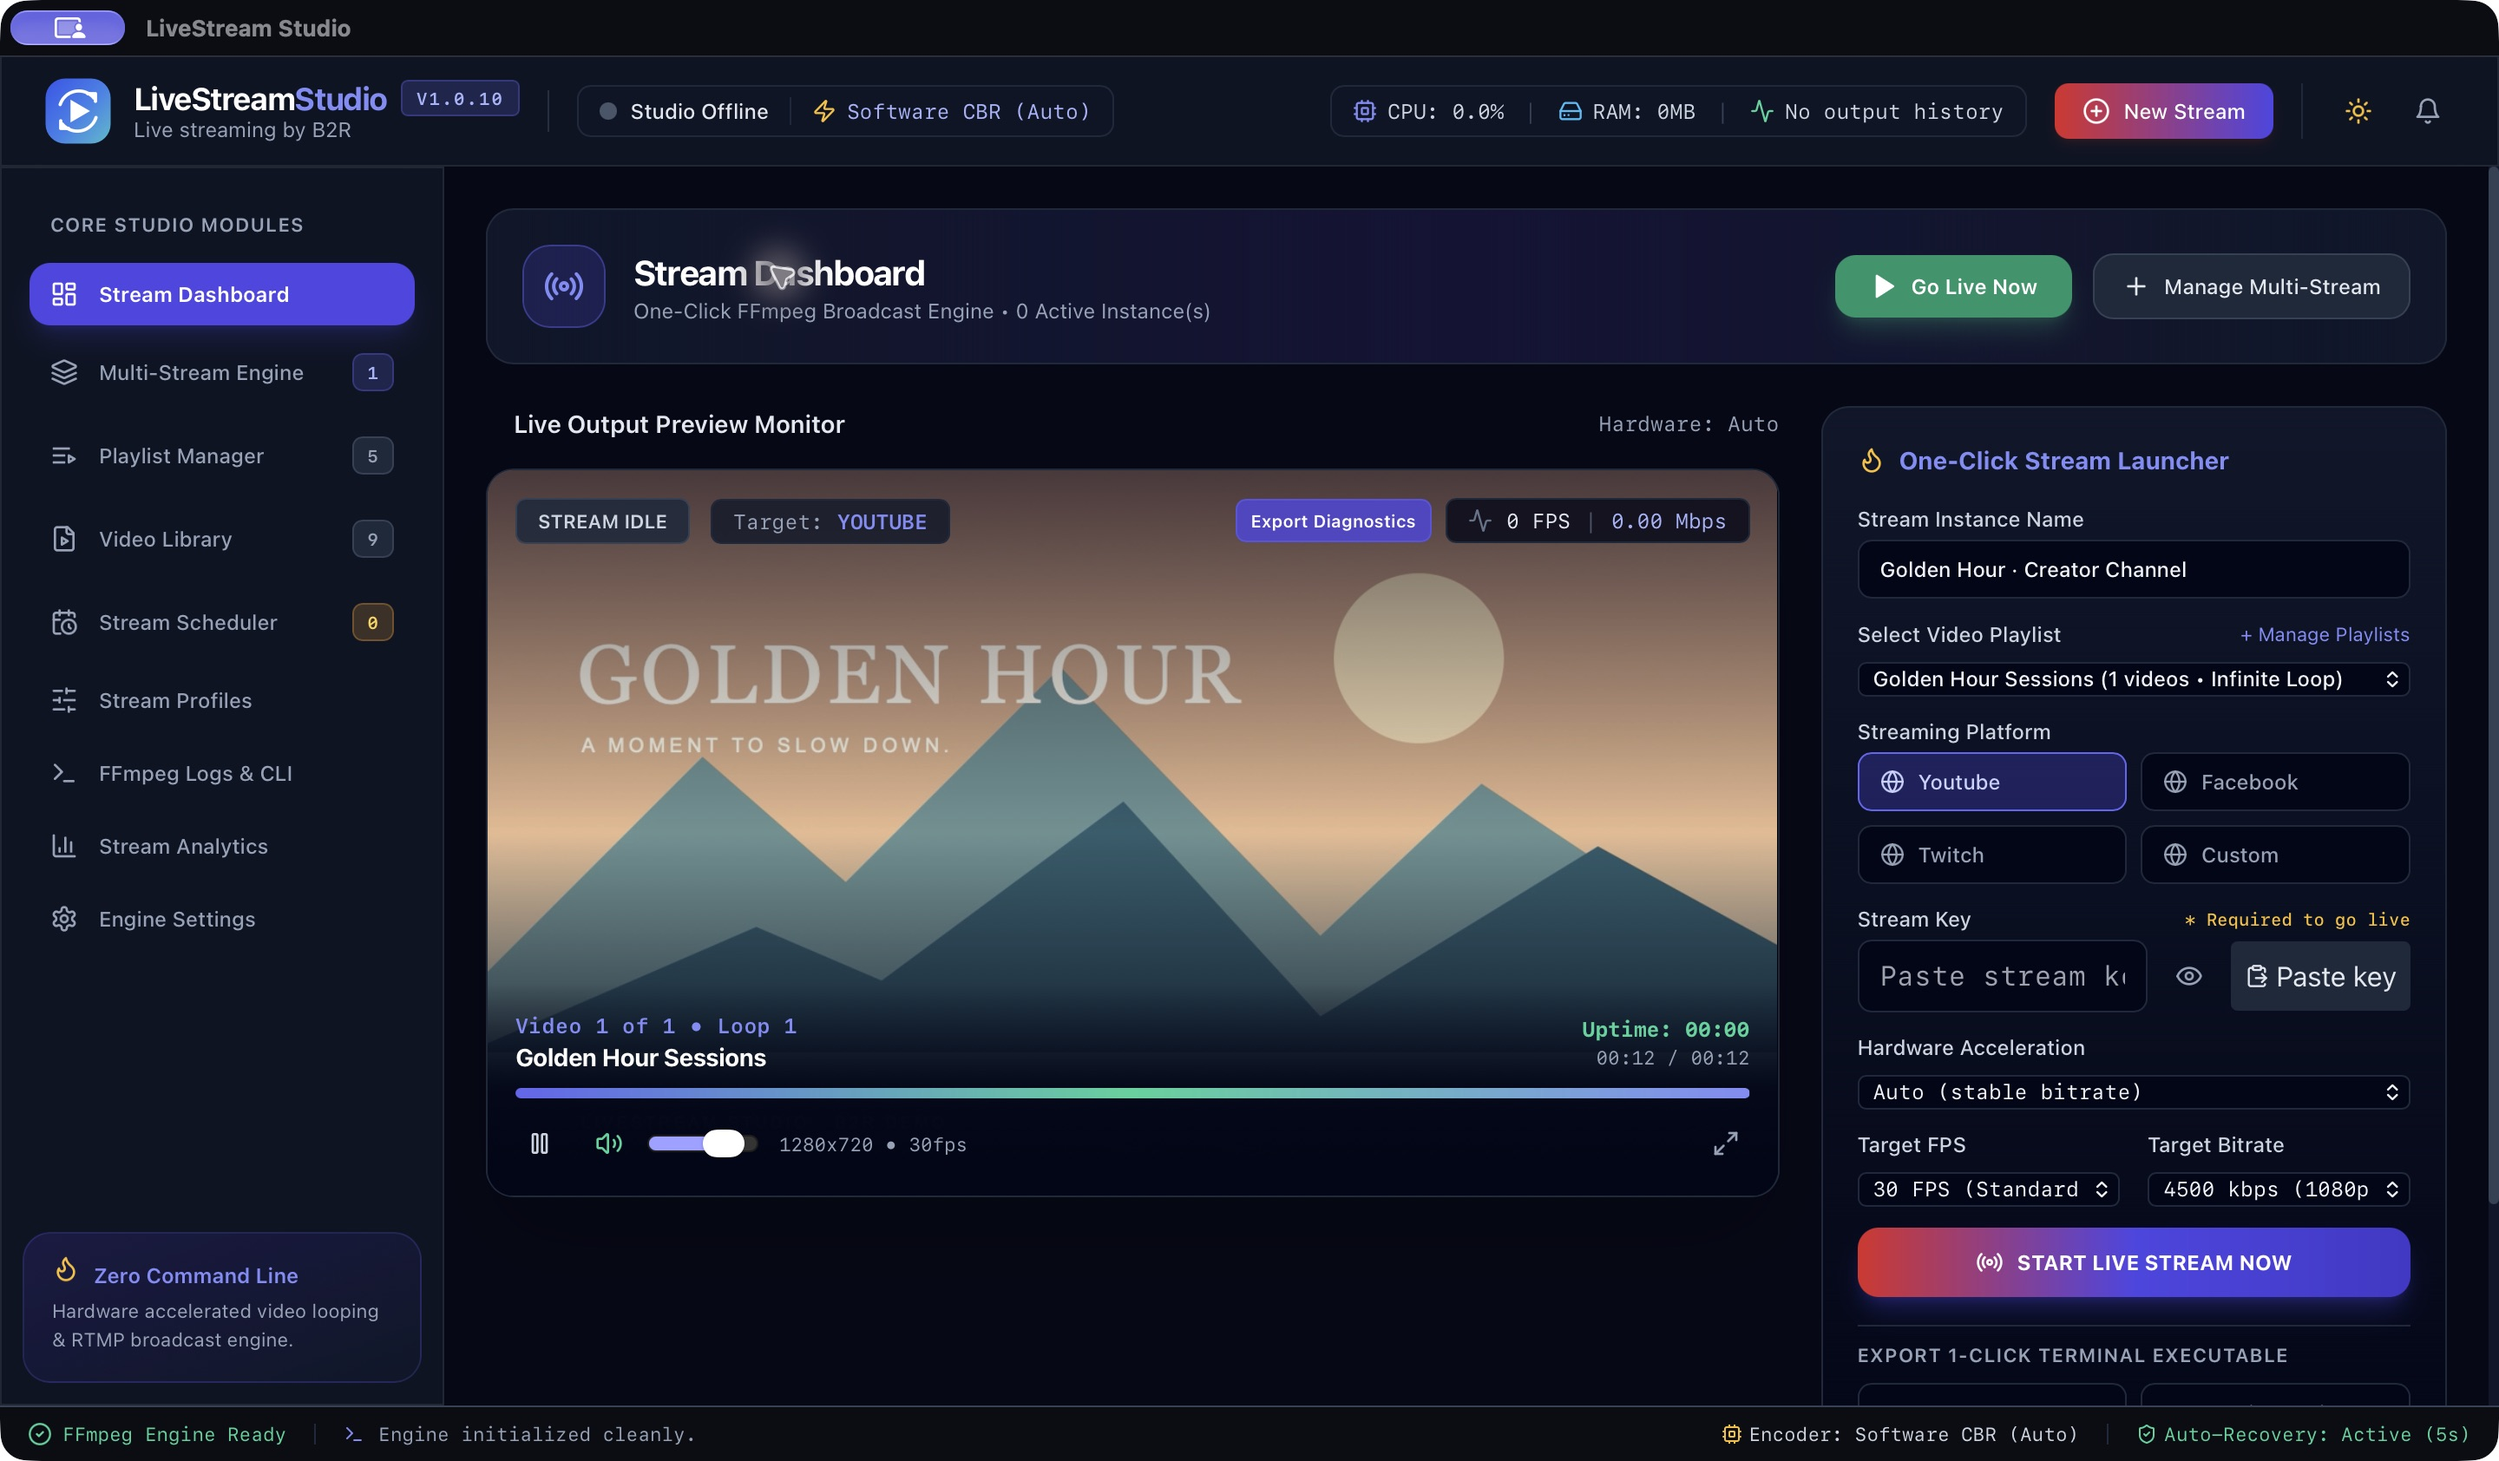
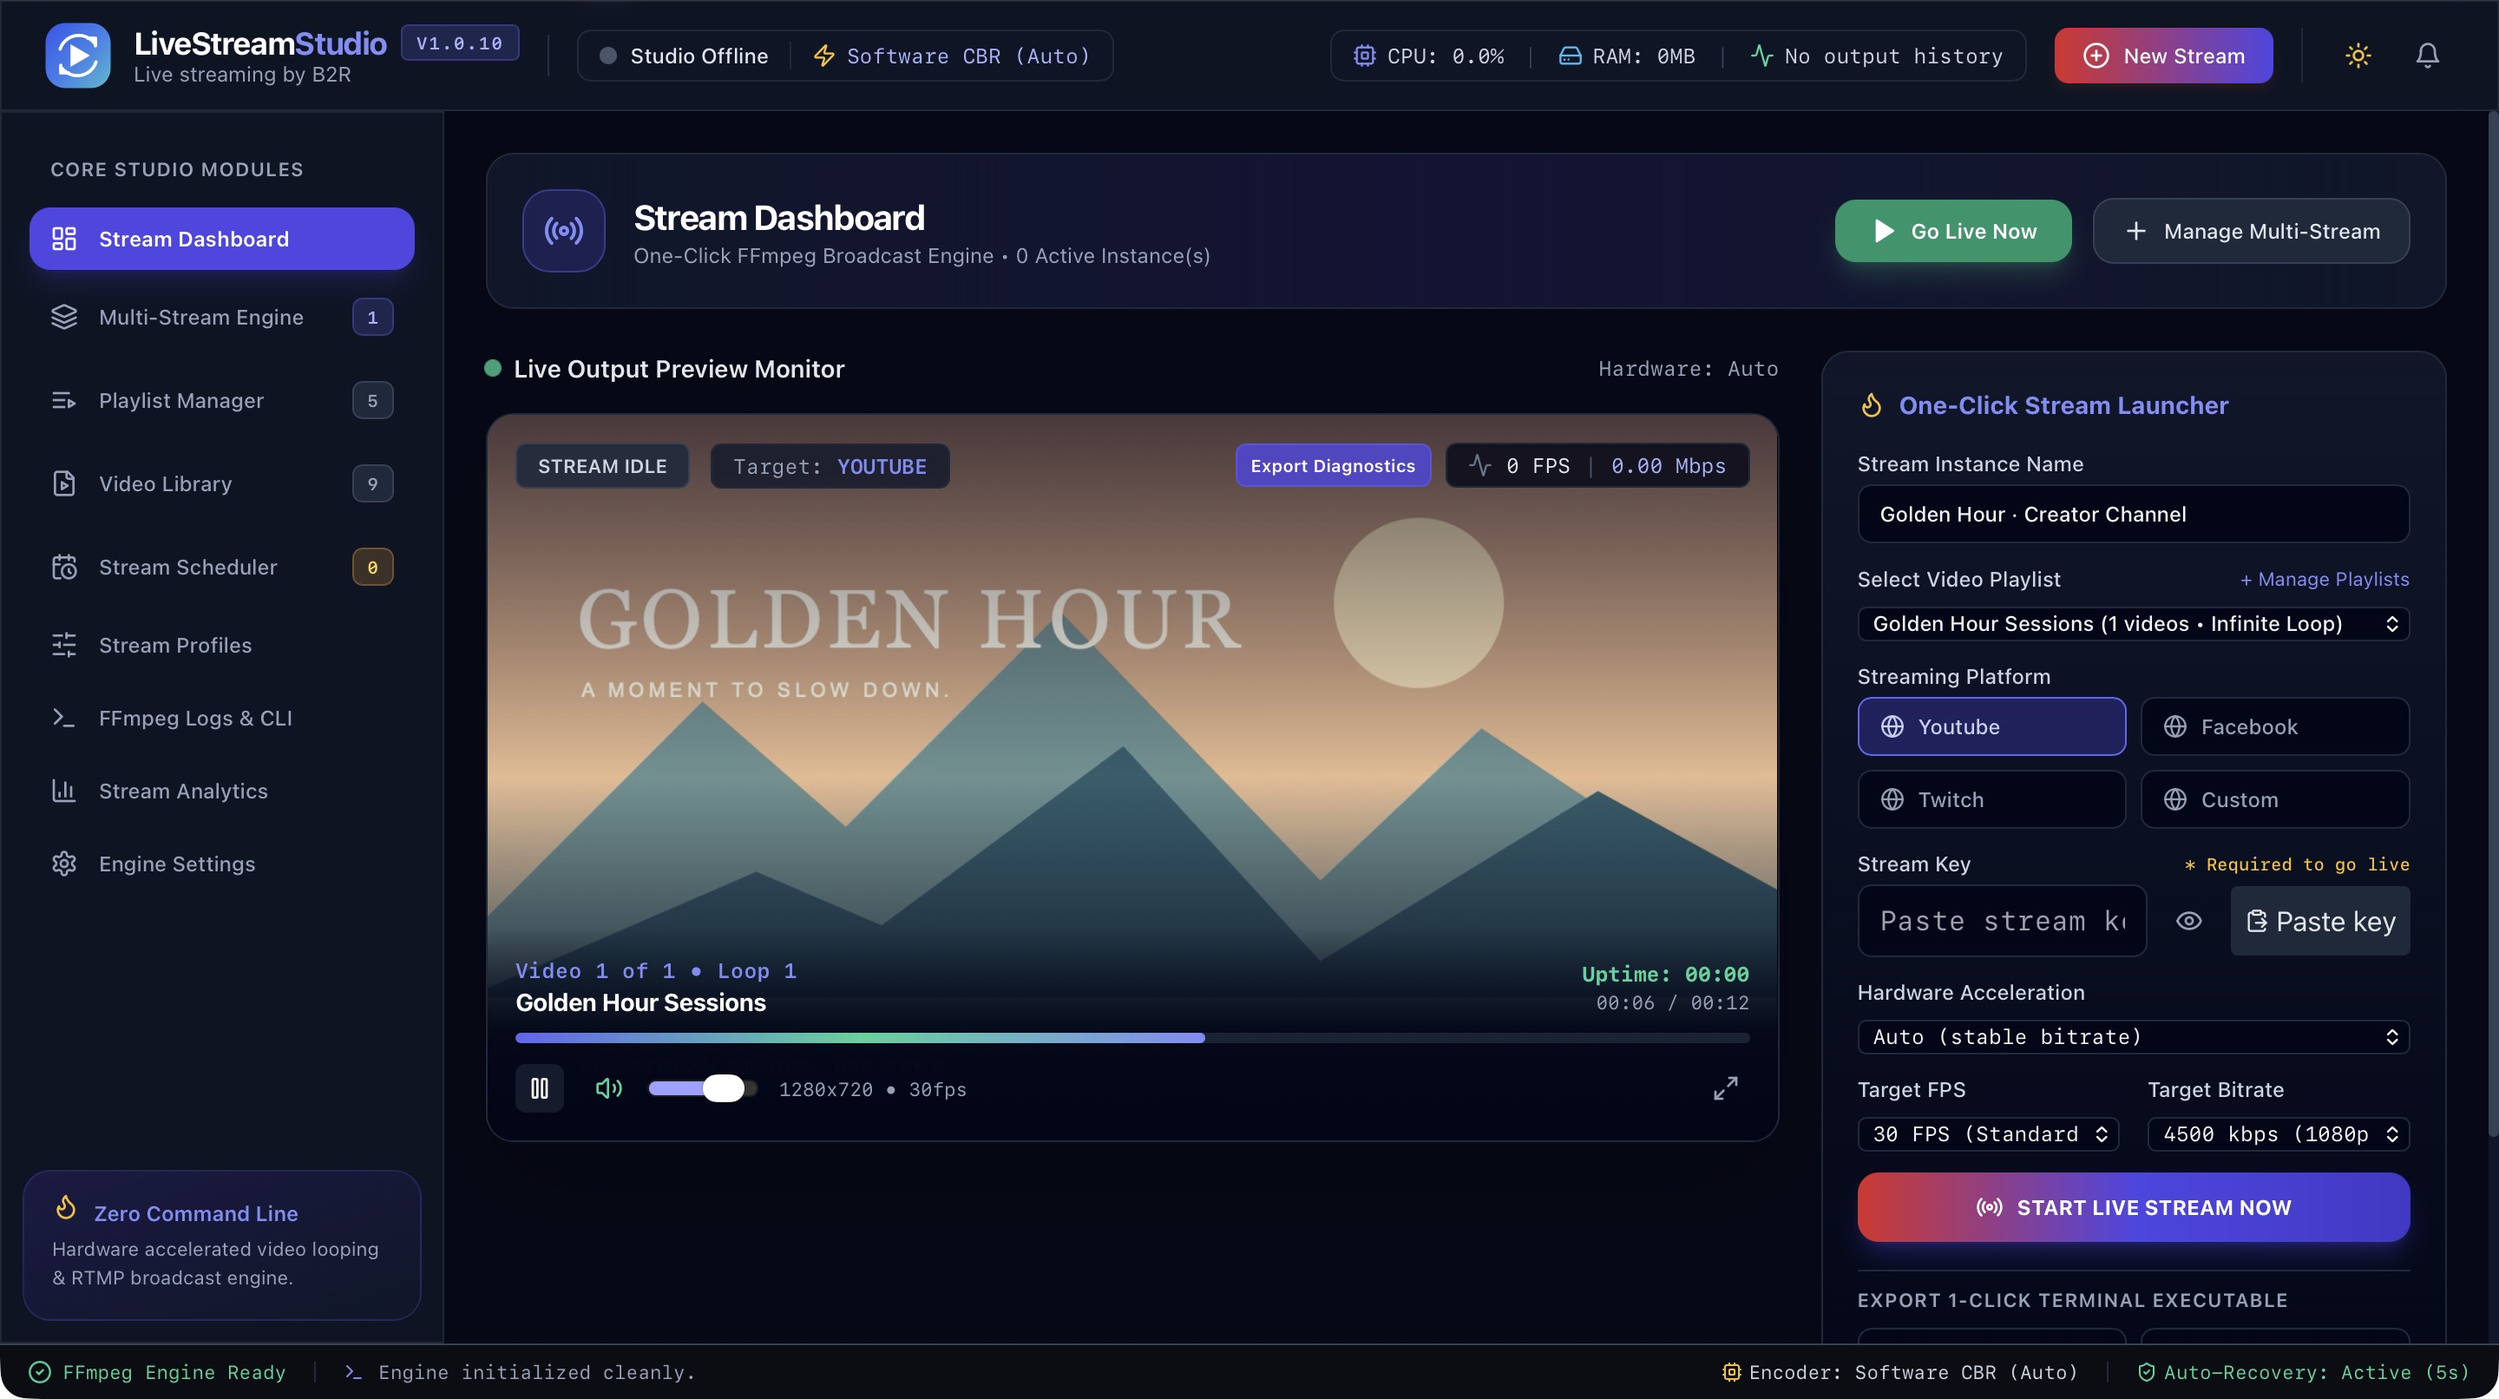
Remove control overlays from the real app screenshot

diff --git a/src/components/marketing/MarketingSite.tsx b/src/components/marketing/MarketingSite.tsx
@@ -92,7 +92,7 @@ function StudioPreview() {
   return <figure className="studio-showcase real-studio-showcase">
     <figcaption className="showcase-caption"><span><span className="live-dot" /> THE REAL LIVESTREAM STUDIO APP</span><span>MACOS · VERSION 1.0.10</span></figcaption>
     <a className="real-app-frame" href="/screenshots/livestream-studio-dashboard.png" target="_blank" rel="noreferrer" aria-label="View the real LiveStream Studio dashboard screenshot at full size">
-      <img src="/screenshots/livestream-studio-dashboard.png" alt="Real LiveStream Studio 1.0.10 desktop app showing a local Golden Hour Sessions video, playlist selection and stream controls. Demo workspace with no active broadcast." width="2880" height="1684" decoding="async" />
+      <img src="/screenshots/livestream-studio-dashboard.png" alt="Real LiveStream Studio 1.0.10 desktop app showing a local Golden Hour Sessions video, playlist selection and stream controls. Demo workspace with no active broadcast." width="2880" height="1612" decoding="async" />
       <span className="screenshot-expand">View full size <ExternalLink size={13} /></span>
     </a>
     <div className="showcase-note"><span><Check size={13} /> Captured from the desktop app. Demo video; no live broadcast.</span><span>LiveStream Studio by B2R</span></div>
